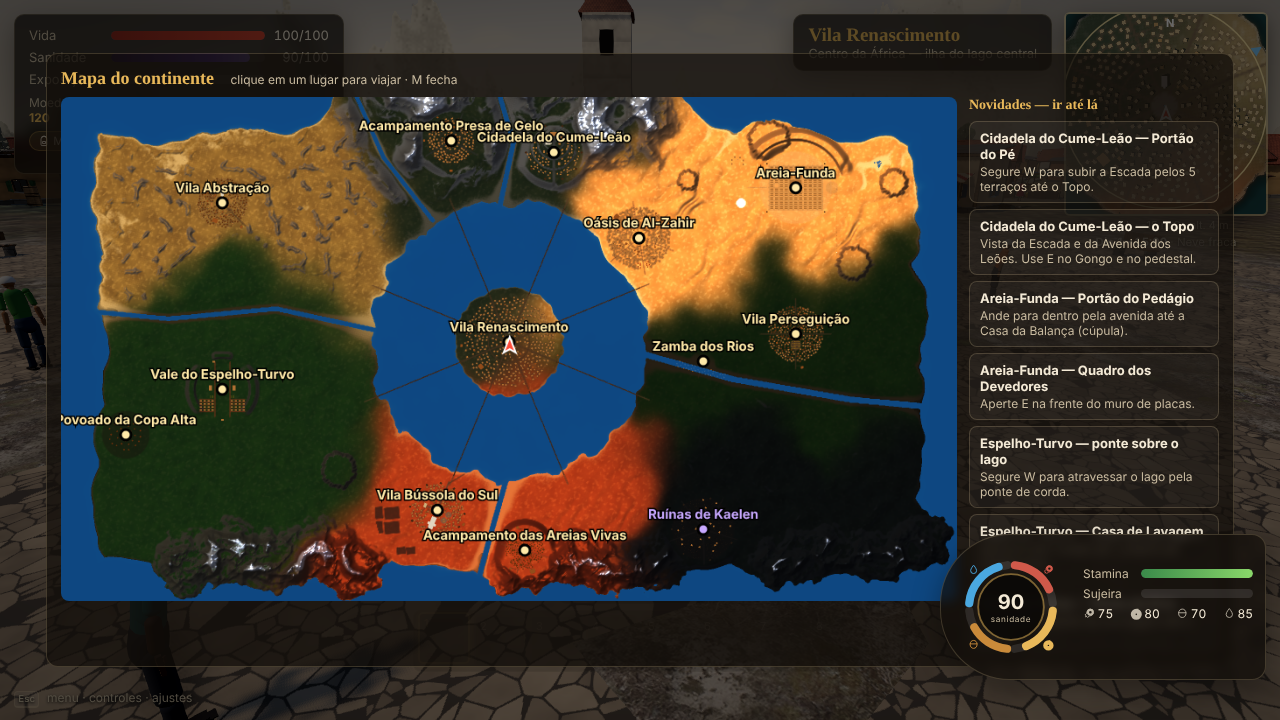
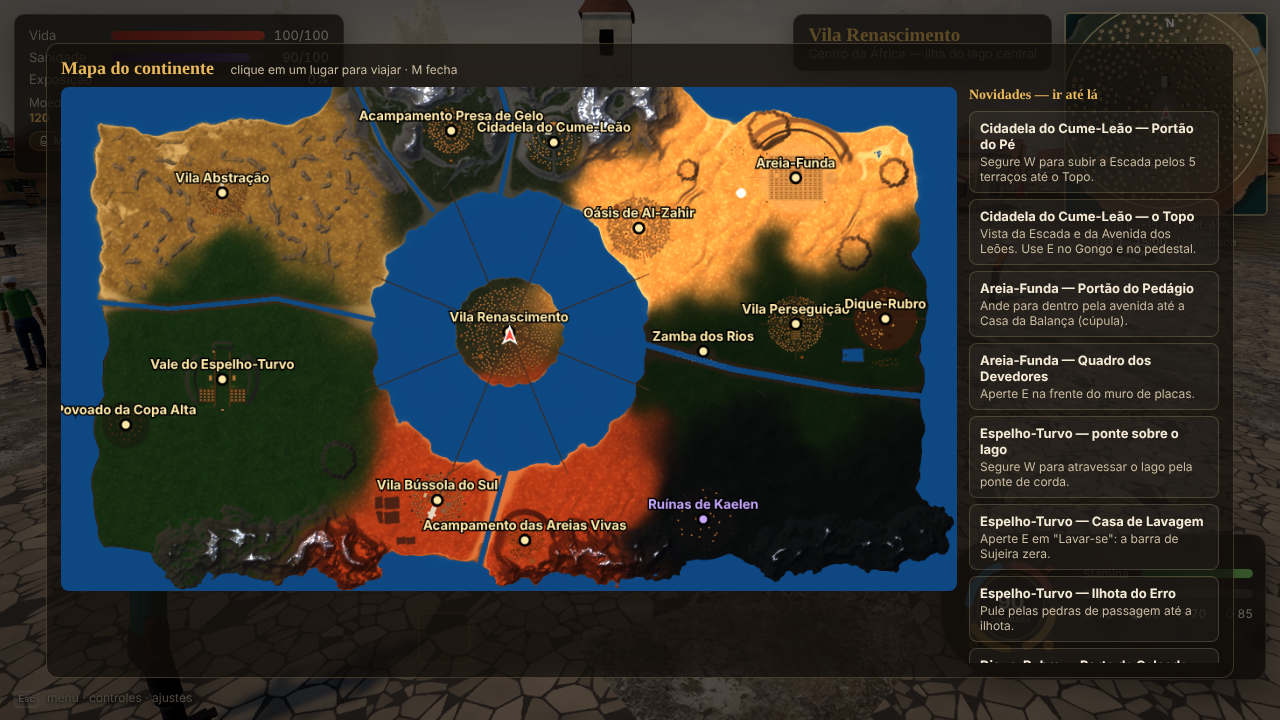
feat: Dique-Rubro (Brasa-Viva) jogável — cidade-forja cercada por um dique
Dique de terra de 5 m em três arcos com as Portas e a Comporta (Ridges),
Ilha dos Pilares (+6 m, Terraces) com o Salão das Placas de bronze, a Torre
de Toorn e a Grande Cisterna, as Mil Fornalhas, os Bairros do Turno, o
Quartel e o Fosso do Lodo, o Bairro Afogado, a Crista do Dique, o Posto dos
Cobradores do Dente, o Lodo e a Lagoa dos Grandes (rebaixo abaixo do mar,
cheio pela água do jogo). Posição u 0.92 v 0.46: em 0.91/0.56 um rio do
mapa cortava a cidade. Três atalhos novos em Novidades (mapa, M).
Verificado no navegador: entra pela Porta da Calçada, sobe à Ilha e os 10
atalhos levam a pontos livres; capturas em production/qa/evidence/brasa-viva-*.png.

Design: design/narrative/brasa-viva.md (Partes IV–VI e XV)

Claude-Session: https://claude.ai/code/session_01PeC3KnBVu2DWi1zjfReTy2

diff --git a/src/villages/BrasaViva.js b/src/villages/BrasaViva.js
@@ -1,0 +1,242 @@
+import { Village } from './Village.js';
+import * as B from './Builders.js';
+import * as X from './BuildersExtra.js';
+import { VILLAGES } from '../config/villages.js';
+import { Mechanics } from '../systems/Mechanics.js';
+import { levelHeight } from '../world/Terraces.js';
+
+/**
+ * DIQUE-RUBRO — cidade de Toorn (Brasa-Viva), na várzea da Floresta Equatorial.
+ * Design: design/narrative/brasa-viva.md (Partes IV–VI e XV).
+ *
+ * Organizada por fogo e por água: um Dique de terra de 5 m (Ridges) cerca a
+ * cidade, com a Porta do Porto (norte), a Porta da Calçada (oeste) e a
+ * Comporta (leste, para o mar). No centro, a Ilha dos Pilares (terrapleno de
+ * 6 m, Terraces) com o Salão das Placas, a Torre de Toorn e a Grande
+ * Cisterna. A leste, as Mil Fornalhas; a oeste e ao norte, os Bairros do Turno
+ * (Vermelho, Branco, Negro); ao sul, o Quartel e o Fosso do Lodo. Fora do
+ * Dique: o Lodo (casas de palha em montes baixos) e a Lagoa dos Grandes,
+ * cujo fundo fica abaixo do mar — a água do próprio jogo a enche.
+ */
+export function buildBrasaViva(game) {
+  const cfg = VILLAGES.brasaViva;
+  const v = new Village(game, cfg, 2525);
+  const { ctx } = v;
+  const { M } = ctx;
+  const cx = v.x, cz = v.z;
+  const r = v.rnd;
+  const zone = game.terraceZones.brasaViva;
+  const floor = levelHeight(zone, 0), islandY = levelHeight(zone, 1);
+  const ground = (x, z) => ctx.terrain.heightAt(x, z);
+  const say = (speaker, title, text) => (g) => Mechanics.talk(g, { speaker, title, text });
+  const free = (x, z, pad) => v.isFree(x, z, pad);
+  const P = (lx, lz) => ({ x: cx + lx, z: cz + lz });
+
+  // Chão de laterita batida dentro do Dique (o 'rubro' do nome).
+  v.paintDisc(cx, cz, 146, 0x7a3e26, 0.55);
+  v.paintDisc(cx, cz, 30, 0x6a3420, 0.8);
+
+  // ------------------------------------------------ Ilha dos Pilares (centro)
+  v.reserve(cx, cz, 28);
+  {
+    // Salão das Placas: pilares de madeira escura cobertos de placas de bronze.
+    const s = P(0, -8);
+    B.house(ctx, { x: s.x, z: s.z, rot: 0, w: 24, d: 12, h: 6, wall: M.adobeRed, roof: 'tin' });
+    const y0 = B.groundUnder(ctx, s.x, s.z, 0, 12, 6) - 0.25;
+    for (let i = 0; i < 8; i++) {
+      const lx = -10.5 + i * 3;
+      B.part(ctx, B.G.box, M.woodDark, s.x, s.z, 0, y0, { lx, lz: 8, ly: 2.8, w: 0.6, h: 5.6, d: 0.6 });
+      for (let k = 0; k < 4; k++) B.part(ctx, B.G.box, M.brass, s.x, s.z, 0, y0, { lx, lz: 8.32, ly: 1 + k * 1.15, w: 0.5, h: 0.8, d: 0.05 });
+      const c = B.local(s.x, s.z, 0, lx, 8); ctx.collisions.addCircle(c.x, c.z, 0.45, 'post');
+    }
+    B.part(ctx, B.G.box, M.tin ?? M.iron, s.x, s.z, 0, y0, { lz: 7, ly: 5.9, w: 25, h: 0.25, d: 4.2 });
+    game.interactions.register({
+      id: 'brasa-placas', label: 'Ler as placas de bronze', radius: 3.5,
+      position: { x: s.x - 4.5, y: y0 + 2, z: s.z + 9 },
+      onInteract: say('Irede Amo', 'Escriba das placas',
+        '"Cada placa é um ano. As antigas contam guerras; as novas, só a dívida. Esta aqui é a da Cheia da Dívida."'),
+    });
+    v.addNPC({ id: 'brasa-irede', name: 'Irede Amo', title: 'Escriba das placas', look: { robe: true, shirt: 0x5a3a22, hat: 'wrap', height: 1.7 },
+      x: s.x - 6, z: s.z + 10, facing: Math.PI });
+    // Torre de Toorn (18 m) e a Grande Cisterna.
+    const t = P(14, 10), ty = ground(t.x, t.z) - 0.3;
+    B.part(ctx, B.G.box, M.mudBrickDark, t.x, t.z, 0, ty, { ly: 9, w: 6, h: 18, d: 6 });
+    B.part(ctx, B.G.box, M.adobeRed, t.x, t.z, 0, ty, { ly: 18.4, w: 6.8, h: 0.8, d: 6.8 });
+    B.part(ctx, B.G.pyramid, M.woodDark, t.x, t.z, 0, ty, { ly: 20.6, w: 7, h: 3.6, d: 7 });
+    ctx.collisions.addBox(t.x, t.z, 3.1, 3.1, 0, 'tower');
+    v.reserve(t.x, t.z, 5);
+    const ci = P(-14, 11), cy = ground(ci.x, ci.z);
+    B.part(ctx, B.G.cyl, M.stoneDark, ci.x, ci.z, 0, cy, { ly: 0.6, w: 4.2, h: 1.2, d: 4.2 });
+    ctx.batch.add(B.G.disc, M.waterOasis, { x: ci.x, y: cy + 1.1, z: ci.z, sx: 3.8, sy: 1, sz: 3.8 });
+    ctx.collisions.addCircle(ci.x, ci.z, 4.3, 'well');
+    v.reserve(ci.x, ci.z, 5);
+    v.addNPC({ id: 'brasa-toorn', name: 'Toorn', title: 'Mestre do Dique (Brasa-Viva)',
+      look: { shirt: 0x5a1a12, pants: 0x2a1a12, hat: 'wrap', build: 1.35, height: 1.95 }, x: cx + 3, z: cz + 4, facing: 0,
+      onInteract: say('Toorn', 'Ilha dos Pilares', '"Fala logo o que quer. E fala de longe. Quem chega perto demais costuma estar cobrando."') });
+    v.npcSpots.push({ x: cx, z: cz + 14, r: 6 });
+  }
+
+  // ------------------------------------------------ Santuário da Têmpera (a Tina), sudeste da Ilha
+  {
+    const s = P(36, 30);
+    B.house(ctx, { x: s.x, z: s.z, rot: Math.atan2(cx - s.x, cz - s.z), w: 12, d: 10, h: 4.5, wall: M.mudBrickDark, roof: 'flat' });
+    v.reserve(s.x, s.z, 9);
+    game.interactions.register({
+      id: 'brasa-tina', label: 'Ouvir a Tina', radius: 3.5, position: { x: s.x - 4, y: ground(s.x, s.z) + 1.4, z: s.z - 4 },
+      onInteract: say('Edeyo Fanmi', 'Santuário da Têmpera',
+        '"A água da Tina nunca esfria. A Espada dorme ali dentro. Ninguém entra sem a guarda e sem a lagoa saber."'),
+    });
+    v.addNPC({ id: 'brasa-edeyo', name: 'Edeyo Fanmi', title: 'Guardiã da Lagoa e da Têmpera', look: { robe: true, shirt: 0x1e3a3a, hat: 'wrap', height: 1.66 },
+      x: s.x - 5, z: s.z - 5, facing: -2.3 });
+  }
+
+  // ------------------------------------------------ As Mil Fornalhas (leste)
+  for (let i = 0; i < 5; i++) for (let j = 0; j < 4; j++) {
+    const p = P(62 + i * 14, -42 + j * 22 + (i % 2) * 6);
+    if (Math.hypot(p.x - cx, p.z - cz) > 135 || !free(p.x, p.z, 4)) continue;
+    furnace(ctx, { x: p.x, z: p.z });
+    if ((i + j) % 3 === 0) v.fires.push({ x: p.x + 2.2, y: ground(p.x, p.z) + 1, z: p.z, color: 0xff7a2a, intensity: 22, range: 12, warm: true }); // boca da fornalha
+    v.reserve(p.x, p.z, 4.5);
+  }
+  {
+    const o = P(76, -20);
+    v.addNPC({ id: 'brasa-oyelu', name: 'Oyelu Fanran', title: 'Mestre das Mil Fornalhas', look: { shirt: 0x6a4a2a, pants: 0x2a1e14, build: 1.2 },
+      x: o.x, z: o.z, facing: -Math.PI / 2,
+      onInteract: say('Oyelu Fanran', 'Mil Fornalhas', '"Bronze bom pede estanho, e o estanho é da Organização. Cada lingote já nasce devendo."') });
+    v.addNPC({ id: 'brasa-nkem', name: 'Nkem Basse', title: 'Mestra dos Foleiros', look: { shirt: 0x8a2a1a, pants: 0x3a2a1c, hat: 'wrap' },
+      x: o.x + 4, z: o.z + 6, facing: 2,
+      onInteract: say('Nkem Basse', 'Guilda dos Foleiros', '"Se os foles param, a cidade para. Foi assim que derrubamos os Senhores do Dique."') });
+    v.npcSpots.push({ x: o.x, z: o.z, r: 8 }, { x: o.x + 14, z: o.z + 30, r: 6 });
+  }
+  // Pátio do Metal: pilhas de lingotes e carvão.
+  for (let k = 0; k < 8; k++) {
+    const p = P(40 + (k % 4) * 5, -66 + Math.floor(k / 4) * 5);
+    ctx.batch.add(B.G.box, k % 2 ? M.brass : M.stoneDark, { x: p.x, y: ground(p.x, p.z) + 0.4, z: p.z, ry: r(), sx: 2.4, sy: 0.8, sz: 1.2 });
+    ctx.collisions.addCircle(p.x, p.z, 1.2, 'crate');
+  }
+
+  // ------------------------------------------------ Bairros do Turno (oeste e norte)
+  const turnos = [M.adobeRed, M.adobeWhite, M.mudBrickDark]; // Vermelho, Branco, Negro
+  const banners = [M.clothRed, M.clothYellow, M.clothBlue];
+  for (let k = 0; k < 90; k++) {
+    const a = Math.PI * (0.55 + r() * 1.25), d = 45 + r() * 90; // de sudoeste a nordeste, pelo oeste e norte
+    const x = cx + Math.cos(a) * d, z = cz + Math.sin(a) * d;
+    if (x > cx + 50 || !free(x, z, 5)) continue;
+    const t = d < 75 ? 0 : d < 105 ? 1 : 2;
+    const rot = Math.atan2(cx - x, cz - z);
+    B.house(ctx, { x, z, rot, w: 7 + r() * 2, d: 5.5 + r(), h: 3.2, wall: turnos[t], roof: r() < 0.5 ? 'thatch' : 'tin' });
+    v.reserve(x, z, 5.2);
+    if (r() < 0.15) { const b = B.local(x, z, rot, 3.6, 4); B.banner(ctx, { x: b.x, z: b.z, cloth: banners[t] }); }
+  }
+
+  // ------------------------------------------------ Quartel do Dique e Fosso do Lodo (sul)
+  {
+    const q = P(-20, 70);
+    B.house(ctx, { x: q.x, z: q.z, rot: Math.PI, w: 18, d: 10, h: 4.5, wall: M.mudBrickDark, roof: 'tin' });
+    v.reserve(q.x, q.z, 11);
+    const f = P(18, 78);
+    v.paintDisc(f.x, f.z, 9, 0x4a3420, 0.95);
+    for (let k = 0; k < 16; k++) {
+      const a = (k / 16) * Math.PI * 2;
+      B.part(ctx, B.G.cyl, M.log, f.x + Math.cos(a) * 9.5, f.z + Math.sin(a) * 9.5, 0, ground(f.x, f.z), { ly: 0.6, w: 0.18, h: 1.2, d: 0.18 });
+    }
+    v.reserve(f.x, f.z, 11);
+    v.npcSpots.push({ x: f.x, z: f.z, r: 7 });
+    v.addNPC({ id: 'brasa-bayo', name: 'Bayo Teke', title: 'Capitão da Guarda do Dique', look: { shirt: 0x3a2a1c, pants: 0x2a1e14, hat: 'wrap', accessory: 'spear', build: 1.2 },
+      x: q.x + 10, z: q.z - 7, facing: 0,
+      onInteract: say('Bayo Teke', 'Quartel do Dique', '"O Fosso resolve as brigas da cidade. Toorn nunca perdeu ali. Ninguém lembra de ele ter ganho rindo."') });
+  }
+
+  // ------------------------------------------------ Bairro Afogado (ruínas, sudeste, junto ao Dique)
+  for (let k = 0; k < 7; k++) {
+    const a = 0.75 + k * 0.1, x = cx + Math.cos(a) * 128, z = cz + Math.sin(a) * 128;
+    if (!free(x, z, 4.5)) continue;
+    B.ruinedHouse(ctx, { x, z, rot: a + Math.PI / 2, w: 7, d: 5.5, h: 2.6, seed: 300 + k });
+    v.reserve(x, z, 5);
+  }
+
+  // ------------------------------------------------ Portas do Dique, Crista e Posto dos Cobradores
+  const doors = [[-Math.PI / 2, 'Porta do Porto'], [Math.PI, 'Porta da Calçada'], [0, 'Comporta']];
+  for (const [a, name] of doors) {
+    const x = cx + Math.cos(a) * 156, z = cz + Math.sin(a) * 156;
+    const nx = -Math.sin(a), nz = Math.cos(a);
+    for (const s of [-1, 1]) {
+      const px = x + nx * s * 9, pz = z + nz * s * 9;
+      B.part(ctx, B.G.box, M.mudBrickDark, px, pz, -a, ground(px, pz) - 0.5, { ly: 3.5, w: 2.4, h: 7, d: 2.4 });
+      ctx.collisions.addBox(px, pz, 1.2, 1.2, -a, 'gate-tower');
+    }
+    v.street(cx + Math.cos(a) * 30, cz + Math.sin(a) * 30, cx + Math.cos(a) * 200, cz + Math.sin(a) * 200, 5, 0x6a4a30);
+    v.npcSpots.push({ x: cx + Math.cos(a) * 140, z: cz + Math.sin(a) * 140, r: 4 });
+    if (name === 'Comporta') {
+      // Posto dos Cobradores do Dente, junto à Comporta (para onde vai a Entrega da Cheia).
+      const pc = { x: x - 14, z: z + 14 };
+      B.house(ctx, { x: pc.x, z: pc.z, rot: -Math.PI / 2, w: 9, d: 6, h: 3.5, wall: M.adobeOchre, roof: 'flat' });
+      v.reserve(pc.x, pc.z, 6.5);
+      v.addNPC({ id: 'brasa-seko', name: 'Seko Varrah', title: 'Cobrador do Dente residente',
+        look: { shirt: 0x2a2420, pants: 0x1c1814, hat: 'wrap', build: 1.1 }, x: pc.x - 5, z: pc.z - 4, facing: Math.PI,
+        onInteract: say('Seko Varrah', 'Posto dos Cobradores', '"Doze toneladas e um terço do pedágio, na Entrega da Cheia. E a pergunta de sempre: e a Espada?"') });
+      const pier = { ax: x + 6, az: z, bx: x + 34, bz: z };
+      if (ground(pier.bx, pier.bz) < 0) B.pier(ctx, { ...pier, width: 4, boats: 2 });
+    }
+  }
+  // Crista do Dique: bancas no alto do Dique, setor norte.
+  for (let k = 0; k < 10; k++) {
+    const a = -Math.PI / 2 + 0.22 + k * 0.11;
+    const x = cx + Math.cos(a) * 160, z = cz + Math.sin(a) * 160;
+    B.marketStall(ctx, { x, z, rot: Math.atan2(cx - x, cz - z) + Math.PI, poor: k % 3 === 0 });
+    v.reserve(x, z, 2.4);
+  }
+  v.npcSpots.push({ x: cx + Math.cos(-1.0) * 160, z: cz + Math.sin(-1.0) * 160, r: 5 });
+
+  // ------------------------------------------------ O Lodo (fora do Dique, sul): palha em montes baixos
+  for (let k = 0; k < 26; k++) {
+    const x = cx - 60 + r() * 120, z = cz + 182 + r() * 34;
+    if (!free(x, z, 3.2) || ground(x, z) < 0.6) continue;
+    B.rondavel(ctx, { x, z, r: 2.6, h: 2.3, wall: M.mudBrick, rot: r() * 6 });
+    v.reserve(x, z, 3.5);
+  }
+  {
+    const m = P(0, 192);
+    v.addNPC({ id: 'brasa-ma-ndofe', name: 'Ma Ndofe', title: 'A Velha do Lodo', look: { robe: true, shirt: 0x5a4a3a, hat: 'wrap', height: 1.55 },
+      x: m.x, z: m.z, facing: Math.PI,
+      onInteract: say('Ma Ndofe', 'O Lodo', '"Ele era um menino doce, sabia? Dividia peixe com os outros. A cheia leva tudo. Até isso."') });
+    v.npcSpots.push({ x: m.x + 4, z: m.z - 3, r: 5 });
+  }
+
+  // ------------------------------------------------ Lagoa dos Grandes (fora do Dique, sudoeste)
+  {
+    const L = cfg.lagoon, lx = cx + L.dx, lz = cz + L.dz;
+    for (let k = 0; k < 5; k++) {
+      const a = -0.9 + k * 0.32, x = lx + Math.cos(a) * (L.hw + 6), z = lz + Math.sin(a) * (L.hd + 6);
+      if (ground(x, z) < 0.5) continue;
+      B.part(ctx, B.G.box, M.stoneDark, x, z, 0, ground(x, z), { ly: 0.5, w: 1.2, h: 1, d: 0.8 }); // altares
+      ctx.collisions.addCircle(x, z, 0.7, 'post');
+    }
+    game.interactions.register({
+      id: 'brasa-lagoa', label: 'Olhar a Lagoa dos Grandes', radius: 6,
+      position: { x: lx + L.hw + 8, y: ground(lx + L.hw + 8, lz) + 1.4, z: lz },
+      onInteract: say('Lagoa dos Grandes', 'Hipopótamos sagrados',
+        'Dizem que pescadores acharam a Espada aqui, entre os Grandes, ainda quente. A água borbulha sem vento.'),
+    });
+  }
+
+  // Ancião (lore) na Porta da Calçada, e Ikoro, o jovem carvoeiro.
+  v.addElder(cx - 146, cz + 6, -Math.PI / 2);
+  v.addNPC({ id: 'brasa-ikoro', name: 'Ikoro', title: 'Jovem carvoeiro', look: { shirt: 0x2a2420, pants: 0x3a2a1c, height: 1.62 },
+    x: cx - 140, z: cz - 6, facing: -Math.PI / 2,
+    onInteract: say('Ikoro', 'Calçada das Carvoarias', '"Carvão para mil fornalhas. Eu carrego, outro queima, a Organização conta. E eu continuo devendo."') });
+  v.addWanderers(26, { shirt: 0x7a3a22, pants: 0x3a2a1c, hat: 'wrap' });
+  v.finalize();
+  return v;
+}
+
+/** Fornalha de barro com chaminé (forja de bronze), boca acesa. */
+function furnace(ctx, { x, z }) {
+  const { M } = ctx;
+  const y0 = ctx.terrain.heightAt(x, z) - 0.2;
+  ctx.batch.add(B.G.cyl, M.mudBrickDark, { x, y: y0 + 1.1, z, sx: 1.8, sy: 2.2, sz: 1.8 });
+  ctx.batch.add(B.G.cone8, M.mudBrick, { x, y: y0 + 3.2, z, sx: 1.6, sy: 2, sz: 1.6 });
+  ctx.batch.add(B.G.cyl, M.mudBrickDark, { x, y: y0 + 5.6, z, sx: 0.5, sy: 3, sz: 0.5 });
+  ctx.batch.add(B.G.box, M.flame ?? M.clothRed, { x: x + 1.75, y: y0 + 0.8, z, sx: 0.1, sy: 0.7, sz: 0.8 });
+  ctx.collisions.addCircle(x, z, 2, 'furnace');
+}

diff --git a/src/config/villages.js b/src/config/villages.js
@@ -347,6 +347,53 @@ export const VILLAGES = {
       ],
     },
   },
+  brasaViva: {
+    id: 'brasaViva',
+    name: 'Dique-Rubro',
+    tribe: 'Brasa-Viva',
+    biome: 'equatorial',
+    region: 'Leste — várzea da Floresta Equatorial, junto ao mar',
+    u: 0.92, v: 0.46,
+    radius: 165,
+    /** Chão dentro do Dique (base) e a Ilha dos Pilares, terrapleno 6 m mais alto no centro. */
+    terraces: {
+      base: 8, blend: 40, edge: 3, stair: { width: 10, run: 14 },
+      levels: [
+        { name: 'Dentro do Dique', r: 150, shift: 0, y: 0 },
+        { name: 'Ilha dos Pilares', r: 27, shift: 0, y: 6 },
+      ],
+    },
+    /** O Dique: anel de terra de 5 m com três Portas (norte, oeste e a Comporta leste). */
+    ridges: [
+      { r: 150, width: 18, height: 5, from: -Math.PI / 2 + 0.12, to: -0.12, fade: 0.04 },
+      { r: 150, width: 18, height: 5, from: 0.12, to: Math.PI - 0.12, fade: 0.04 },
+      { r: 150, width: 18, height: 5, from: -Math.PI + 0.12, to: -Math.PI / 2 - 0.12, fade: 0.04 },
+    ],
+    /** Lagoa dos Grandes (sudoeste, fora do Dique): fundo abaixo do mar, a água do jogo a enche. */
+    lagoon: { dx: -150, dz: 165, hw: 55, hd: 36 },
+    trenches: [{ dx: -150, dz: 165, hw: 55, hd: 36, depth: 16, edge: 10 }],
+    population: 4100,
+    populationNote: 'Cerca de 4.100, a maioria trabalhadores das fornalhas, por turno.',
+    demographics: null,
+    faction: 'Cidade de Toorn — a Brasa-Viva (dívida com a organização de Gierigheid)',
+    founded: 'Cresceu como forja do império sobre terraplenos de barro, protegida da cheia por um dique.',
+    description:
+      'Uma cidade-forja cercada por um dique de terra. No centro, a Ilha dos Pilares; a leste, as Mil ' +
+      'Fornalhas. Fora do Dique ficam a Lagoa dos Grandes e o Lodo, onde Toorn nasceu.',
+    structures: [
+      'O Dique e suas três Portas', 'Ilha dos Pilares', 'Salão das Placas', 'Torre de Toorn', 'As Mil Fornalhas',
+      'Bairros do Turno', 'Fosso do Lodo', 'Santuário da Têmpera', 'Posto dos Cobradores do Dente', 'O Lodo', 'Lagoa dos Grandes',
+    ],
+    lore: {
+      speaker: 'Foleiro da Porta da Calçada', title: 'Dique-Rubro',
+      look: { shirt: 0x7a3a22, pants: 0x3a2a1c, hat: 'wrap', build: 1.15 },
+      pages: [
+        '"Ouve o fole? Três turnos, dia e noite. Vermelho, Branco e Negro. A cidade nunca apaga."',
+        '"O Dique segura a cheia. A dívida, ninguém segura. Na Entrega da Cheia, os Cobradores levam o melhor metal."',
+        '"Não fale alto perto do Mestre Toorn. E não pergunte do pai dele. Nunca."',
+      ],
+    },
+  },
   ruinasKaelen: {
     id: 'ruinasKaelen',
     name: 'Ruínas de Kaelen',

diff --git a/src/core/Game.js b/src/core/Game.js
@@ -44,6 +44,7 @@ import { buildRuinasKaelen } from '../villages/RuinasKaelen.js';
 import { buildCoroaAlta } from '../villages/CoroaAlta.js';
 import { buildMaoCerrada } from '../villages/MaoCerrada.js';
 import { buildEspelhoTurvo } from '../villages/EspelhoTurvo.js';
+import { buildBrasaViva } from '../villages/BrasaViva.js';
 import { placeStatues } from '../render/Statues.js';
 import { SHOWCASE } from '../config/showcase.js';
 import { FireLights } from '../render/FireLights.js';
@@ -234,7 +235,7 @@ export class Game {
       if (v.terraces) this.terraceZones[v.id] = this.generator.addTerraceZone({ x: c.x, z: c.z, ...v.terraces });
       else this.generator.addFlatZone({ x: c.x, z: c.z, ...v.flatten });
       for (const r of v.ridges ?? []) this.generator.addRidge({ x: c.x, z: c.z, ...r });
-      for (const t of v.trenches ?? []) this.generator.addTrench({ x: c.x, z: c.z, ...t });
+      for (const t of v.trenches ?? []) this.generator.addTrench({ ...t, x: c.x + (t.dx ?? 0), z: c.z + (t.dz ?? 0) });
     }
     for (const z of EXTRA_FLAT_ZONES) {
       const c = uvToWorld(z.u, z.v);
@@ -262,7 +263,7 @@ export class Game {
       renascimento: buildRenascimento, perseguicao: buildPerseguicao, abstracao: buildAbstracao, bussola: buildBussola,
       presaDeGelo: buildPresaDeGelo, alZahir: buildAlZahir, copaAlta: buildCopaAlta,
       areiasVivas: buildAreiasVivas, zambaRios: buildZambaRios, ruinasKaelen: buildRuinasKaelen,
-      coroaAlta: buildCoroaAlta, maoCerrada: buildMaoCerrada, espelhoTurvo: buildEspelhoTurvo,
+      coroaAlta: buildCoroaAlta, maoCerrada: buildMaoCerrada, espelhoTurvo: buildEspelhoTurvo, brasaViva: buildBrasaViva,
     };
     let k = 0;
     for (const [id, build] of Object.entries(builders)) {

diff --git a/src/config/showcase.js b/src/config/showcase.js
@@ -19,4 +19,10 @@ export const SHOWCASE = [
     hint: 'Aperte E em "Lavar-se": a barra de Sujeira zera.', dx: 0, dz: 129, yaw: 0 },
   { village: 'espelhoTurvo', title: 'Espelho-Turvo — Ilhota do Erro',
     hint: 'Pule pelas pedras de passagem até a ilhota.', dx: -28, dz: 0, yaw: Math.PI / 2 },
+  { village: 'brasaViva', title: 'Dique-Rubro — Porta da Calçada',
+    hint: 'Segure W: entre pelo Dique e suba a rampa da Ilha dos Pilares.', dx: -175, dz: 0, yaw: Math.PI / 2 },
+  { village: 'brasaViva', title: 'Dique-Rubro — as Mil Fornalhas',
+    hint: 'Fale (E) com Oyelu e Nkem entre as fornalhas acesas.', dx: 50, dz: -10, yaw: Math.PI / 2 },
+  { village: 'brasaViva', title: 'Dique-Rubro — Salão das Placas',
+    hint: 'Aperte E diante dos pilares para ler as placas de bronze; Toorn está na Ilha.', dx: -4, dz: 14, yaw: Math.PI },
 ];

diff --git a/src/config/workplaces.js b/src/config/workplaces.js
@@ -310,7 +310,7 @@ export const PLACEMENT = {
   /** ordem de construção: os essenciais primeiro (pegam os melhores lugares) */
   order: ['market', 'chapel', 'forge', 'farm', 'bakery', 'tavern', 'carpentry', 'mine', 'mill', 'stable', 'lumberyard', 'fishery', 'weavery', 'pottery', 'infirmary', 'library', 'guardpost'],
   /** vilas que não recebem prédios novos (ruínas; vilas suspensas/sobre a água têm arquitetura própria) */
-  skipVillages: ['ruinasKaelen', 'copaAlta', 'zambaRios', 'coroaAlta', 'maoCerrada', 'espelhoTurvo'],
+  skipVillages: ['ruinasKaelen', 'copaAlta', 'zambaRios', 'coroaAlta', 'maoCerrada', 'espelhoTurvo', 'brasaViva'],
   /** biomas sem certo prédio */
   biomeSkip: { deserto: ['lumberyard', 'fishery'], kalahari: ['lumberyard', 'fishery', 'mill'] },
 };

diff --git a/design/narrative/brasa-viva.md b/design/narrative/brasa-viva.md
@@ -1882,6 +1882,28 @@ Todos são [PROPOSTA]. Nenhum tem solução obrigatória.
 
 ## PARTE XV — IMPLEMENTAÇÃO EM JOGO 3D
 
+> **Estado (2026-11-17): primeira versão jogável no jogo** (`src/villages/BrasaViva.js`, `VILLAGES.brasaViva`).
+> - **Posição:** `u 0.92, v 0.46`. Em `u 0.91, v 0.56` um rio do mapa atravessava a cidade.
+> - **Terreno:**
+>   - o chão dentro do Dique é fixo em 8 m;
+>   - a Ilha dos Pilares é um terrapleno de +6 m com rampa (Terraces);
+>   - o Dique é um anel de terra de 5 m, em três arcos, com as Portas norte e oeste e a Comporta leste (Ridges);
+>   - a Lagoa dos Grandes é um rebaixo abaixo do nível do mar, e a água do jogo a enche (`trenches`).
+> - **Feito:**
+>   - Salão das Placas com pilares de placas de bronze, Torre de Toorn e Grande Cisterna;
+>   - Santuário da Têmpera e ~18 fornalhas com chaminé e boca acesa;
+>   - Pátio do Metal, ~60 casas dos Bairros do Turno (cor por turno) e Quartel com o Fosso do Lodo;
+>   - Bairro Afogado (ruínas), Crista do Dique com bancas e Posto dos Cobradores do Dente;
+>   - o Lodo (cabanas de palha) e a Lagoa com altares;
+>   - NPCs: Toorn, Edeyo, Oyelu, Nkem, Bayo, Seko Varrah, Irede, Ma Ndofe e Ikoro.
+> - **Falta:**
+>   - hipopótamos (não há modelo licenciado) e o Hipopótamo de Bronze;
+>   - rodas d'água;
+>   - Charco Fervente;
+>   - a Entrega da Cheia como evento;
+>   - estilo de interior próprio;
+>   - ligar a cidade ao sistema de trabalho dos NPCs.
+
 Escala do projeto: Three.js, **1 unidade = 1 m**, mundo de 4096 × 2304 m (`src/config/worldConfig.js`). Este plano usa os sistemas do branch atual e marca **"a criar"** o que falta.
 
 > **Branch `completo`:** tem sistemas mais novos que devem ser considerados ao implementar: física com **Rapier** no lugar de cannon-es, sistema de **trabalho dos NPCs** (profissões, prédios e estações; ver `docs/WORK-SYSTEM-PENDENCIAS.md` naquele branch), oceano/água com `WaterSurface`, barco pilotável e IA de fauna com ecossistema. A implementação da Brasa-Viva deve partir de lá.
